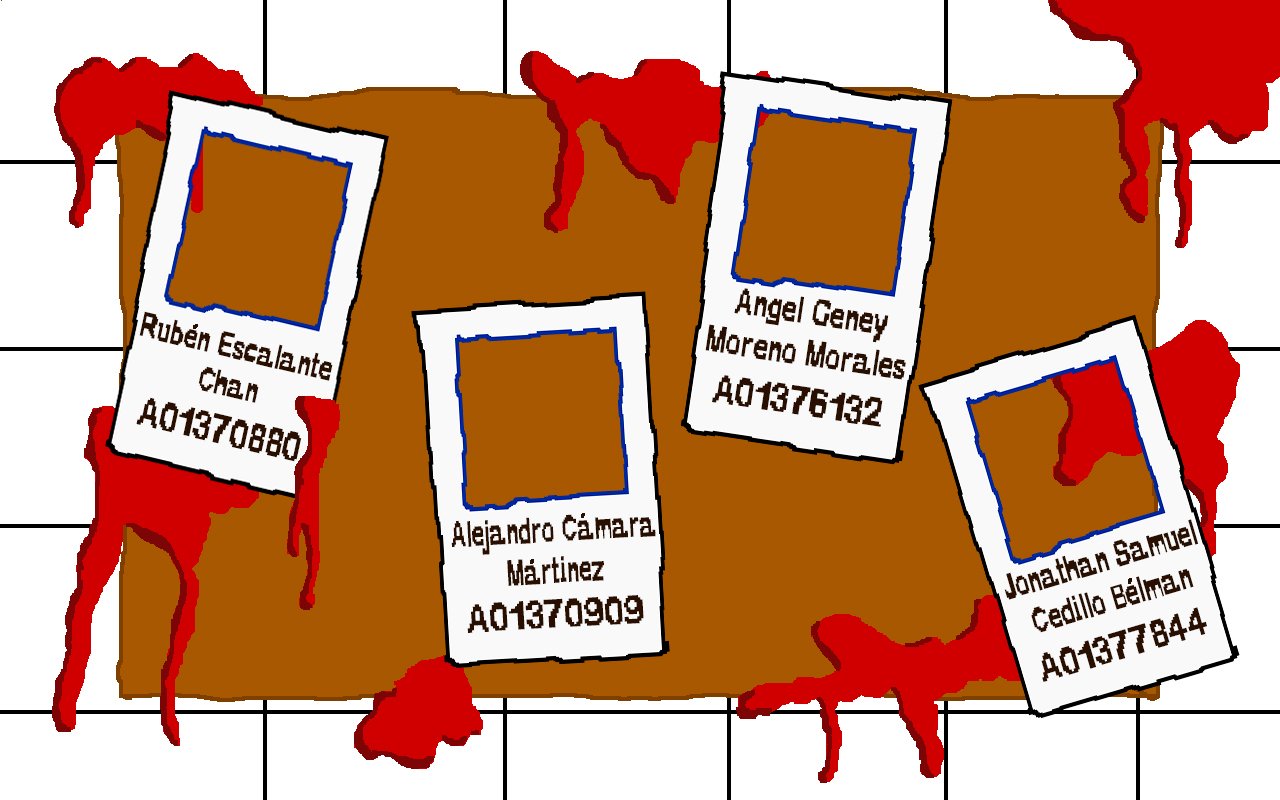
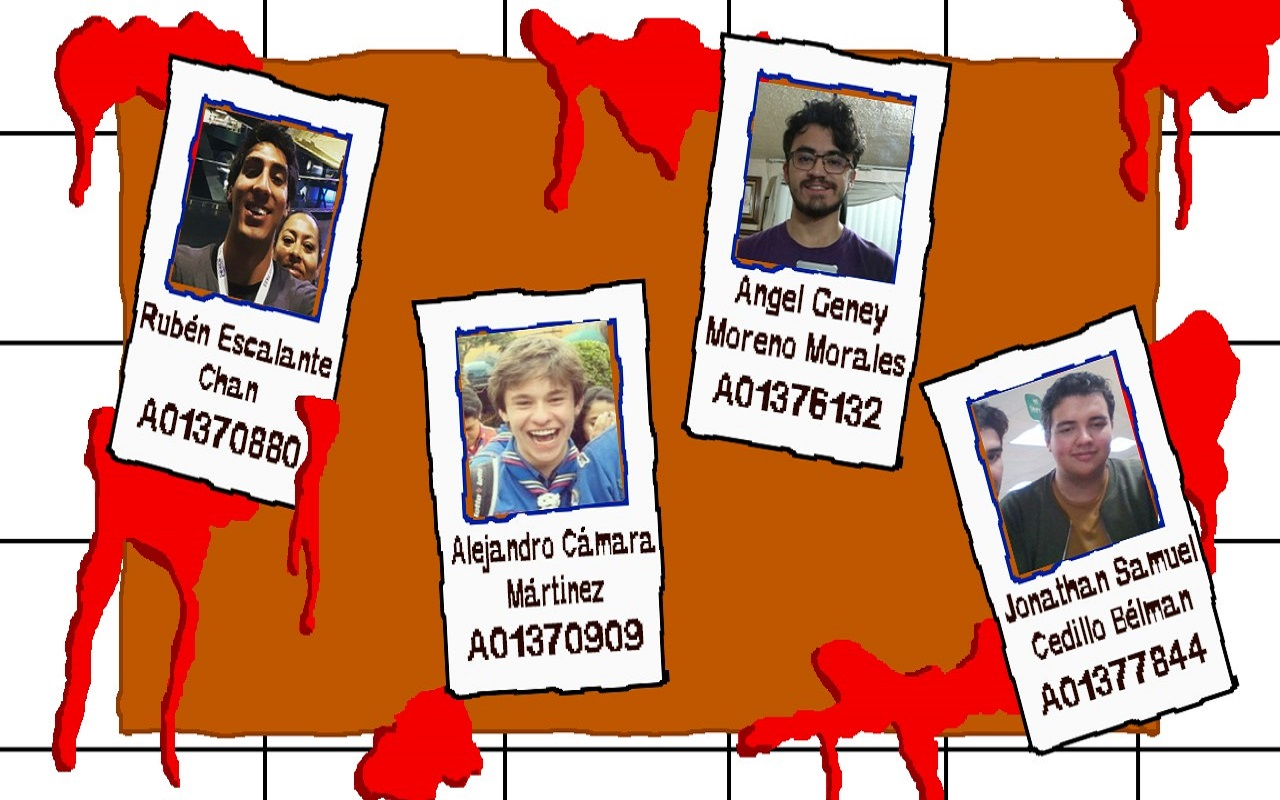
Actualización fondo de MenuCreditos

diff --git a/core/src/mx/rueschan/videojuego/MenuCreditos.java b/core/src/mx/rueschan/videojuego/MenuCreditos.java
@@ -12,7 +12,7 @@ import com.badlogic.gdx.scenes.scene2d.utils.ClickListener;
 import com.badlogic.gdx.scenes.scene2d.utils.TextureRegionDrawable;
 
 /**
- * Created by Rubén Escalante on 14/02/2017.
+ * Created by Odd Fellows on 14/02/2017.
  */
 
 public class MenuCreditos implements Screen {
